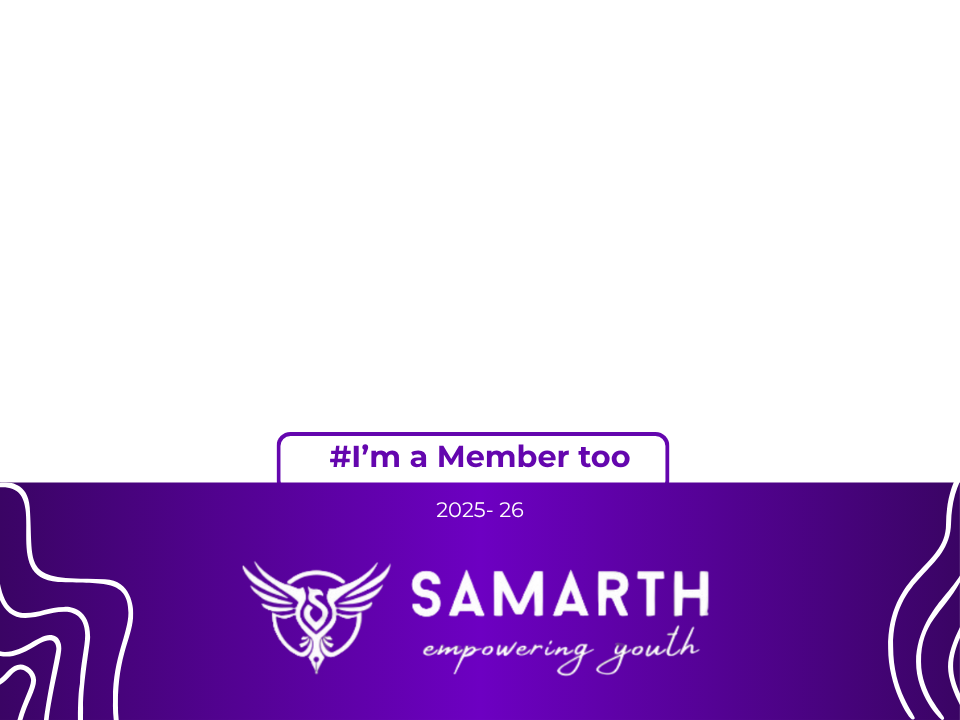
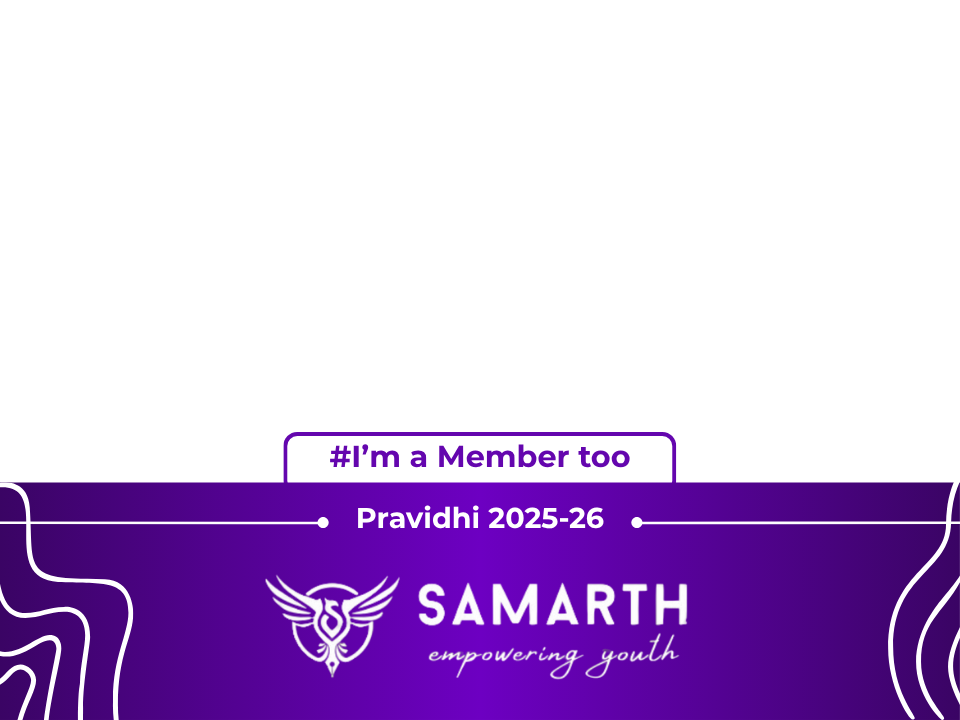
yo

diff --git a/index.html b/index.html
@@ -2,7 +2,7 @@
 <html lang="en">
   <head>
     <title>Member Badge 2025</title>
-    <meta name="description" content="Social Media Badge Generator - Samarth" />
+    <meta name="description" content="Pravidhi Badge Generator - Samarth" />
     <meta name="viewport" content="width=device-width, initial-scale=1" />
     <link rel="shortcut icon" href="fav.png" type="image/x-icon" />
     <link rel="apple-touch-icon" href="member.png" />
@@ -329,7 +329,7 @@ select.category-input option {
       }
     </style>
     <header>
-      <div class="title">Samarth Member Badge Generator</div>
+      <div class="title">Pravidhi Member Badge Generator</div>
     </header>
 
     <div class="main-container">
